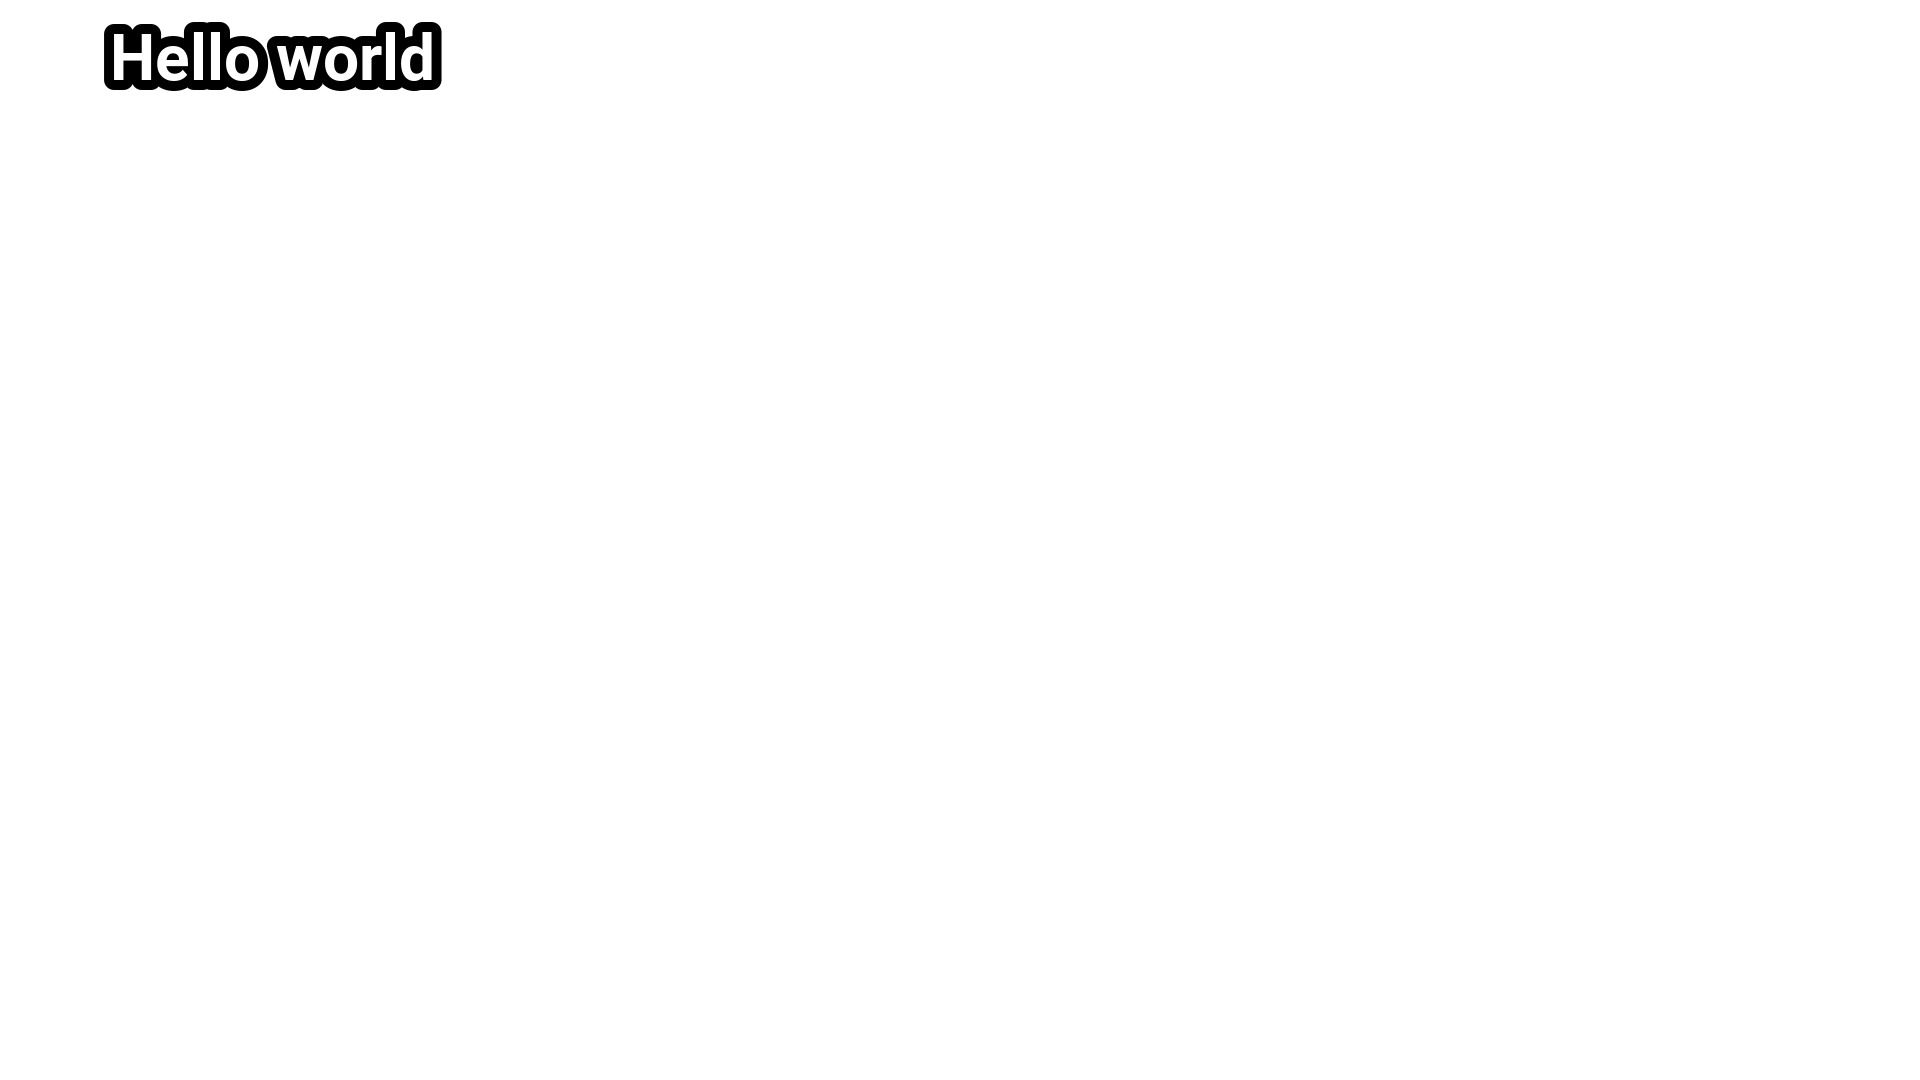
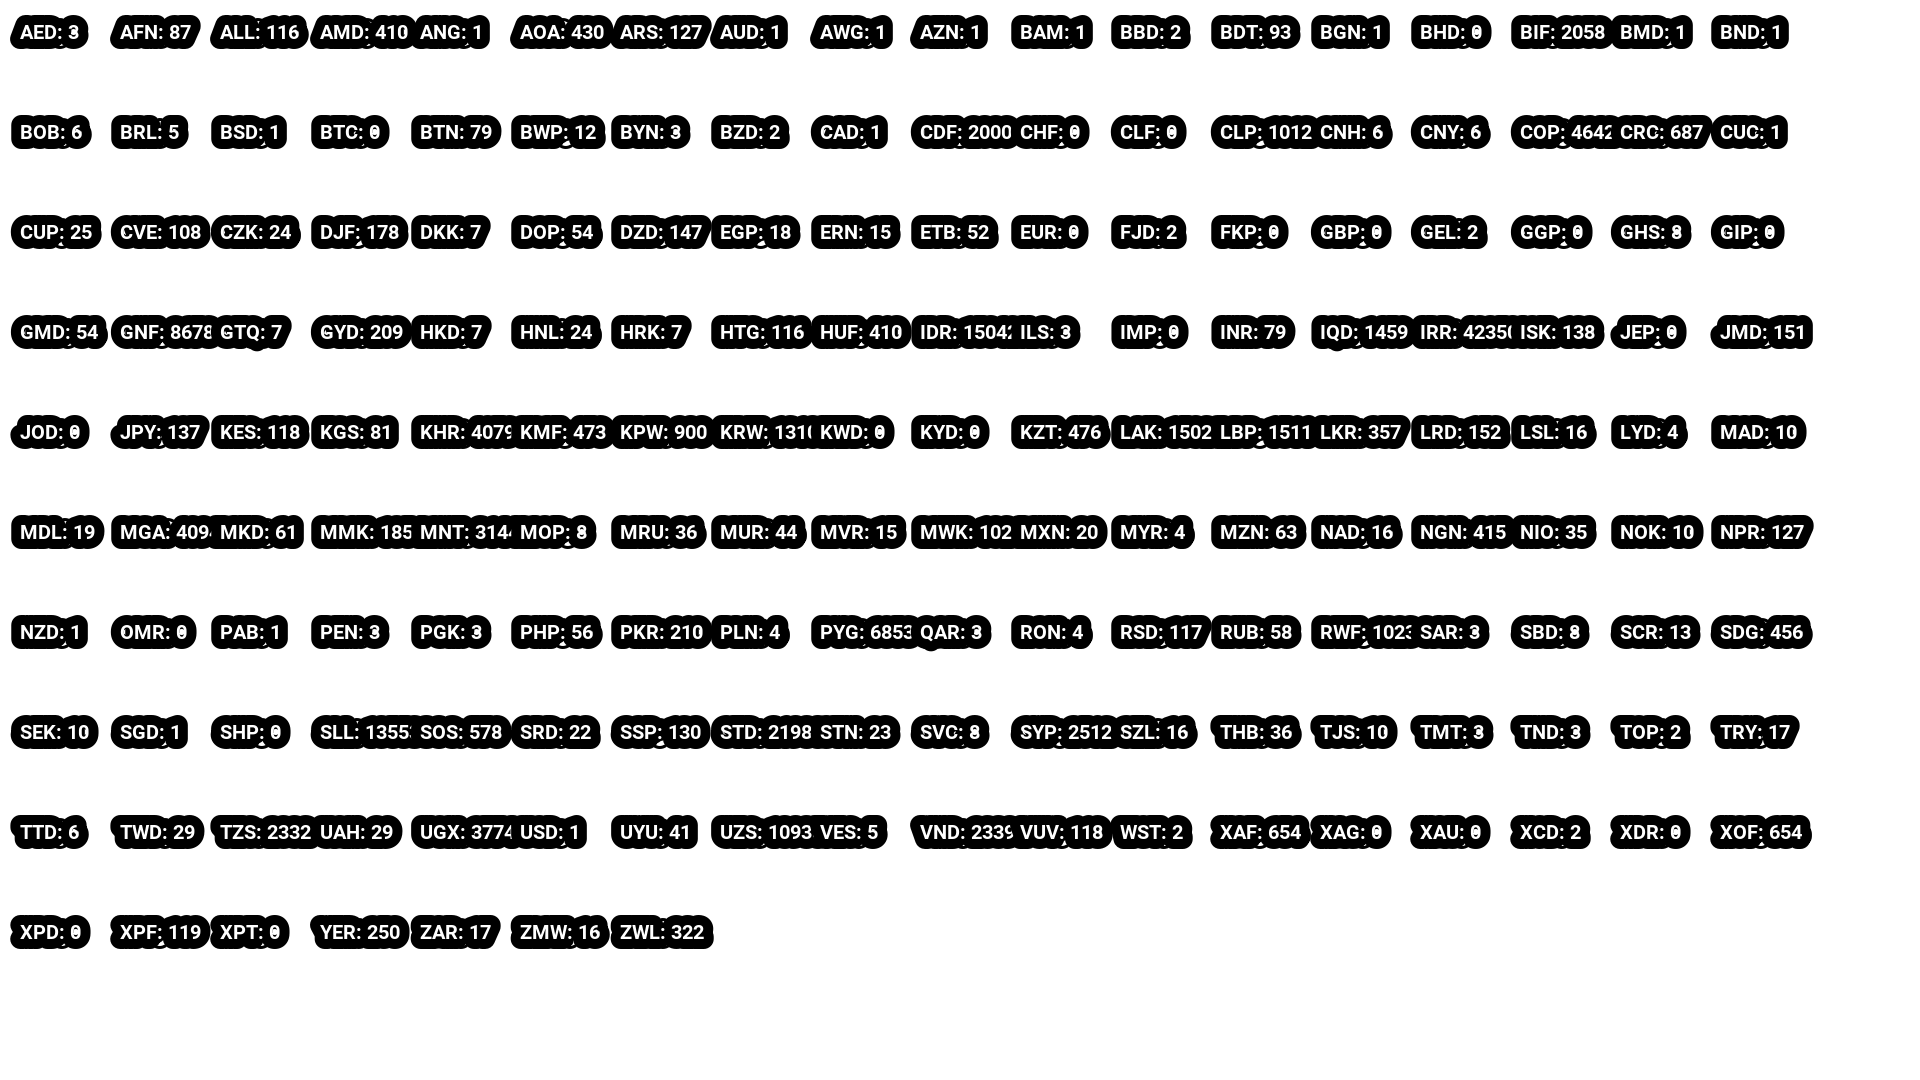
FEAT: Display all rates on one image

diff --git a/src/movie_tools/exchange_rate/rate.py b/src/movie_tools/exchange_rate/rate.py
@@ -1,4 +1,14 @@
+from dataclasses import dataclass
 import requests
+
+
+@dataclass
+class RatesResponse:
+    disclaimer: str
+    license: str
+    timestamp: int
+    base: str
+    rates: dict[str, float]
 
 
 class Client(object):
@@ -7,30 +17,12 @@ class Client(object):
         self.app_id = app_id
         self.session = requests.Session()
 
-    def get_currencies(self):
-        """
-        Get a JSON list of all currency symbols available from the Open
-        Exchange Rates API, along with their full names.
-        ref. https://oxr.readme.io/docs/currencies-json
-        """
-        return self.__request("currencies.json")
-
-    def get_latest(self, base=None, symbols=None):
+    def get_latest(self, base=None, symbols=None) -> RatesResponse:
         """
         Get latest data.
         ref. https://oxr.readme.io/docs/latest-json
         """
-        return self.__get_exchange_rates("latest.json", base, symbols)
-
-    def convert(self, value, from_symbol, to_symbol):
-        """
-        Convert any money value from one currency to another at the latest
-        API rates.
-        ref. https://oxr.readme.io/docs/convert
-        """
-        endpoint = "convert/{}/{}/{}".format(value, from_symbol, to_symbol)
-        payload = {"app_id": self.app_id}
-        return self.__request(endpoint, payload)
+        return RatesResponse(**self.__get_exchange_rates("latest.json", base, symbols))
 
     def __request(self, endpoint, payload=None):
         url = self.api_base + "/" + endpoint

diff --git a/src/movie_tools/exchange_rate/imaging.py b/src/movie_tools/exchange_rate/imaging.py
@@ -10,15 +10,14 @@ class Imaging:
         self.img = Image.new(mode="RGBA", size=(1920, 1080), color=(0, 0, 0, 0))
 
         self.font_path = Path(__file__).parent.joinpath("fonts", "Roboto-Bold.ttf")
-        self.font_size = 20  # 文字の大きさ
 
-    def build(self, image_path: str = r".\test.png"):
+    def save(self, image_path: str = r".\test.png"):
         self.img.save(image_path, quality=95)
 
     def write(
         self,
         text: str,
-        xy: tuple[float, float] = (110, 20),
+        xy: tuple[float, float],
         size: int = DEFAULT_FONT_SIZE,
     ):
         """
@@ -35,8 +34,3 @@ class Imaging:
             stroke_fill="black",
             stroke_width=10,
         )
-
-
-i = Imaging()
-i.write("Hello world")
-i.build()

diff --git a/src/movie_tools/exchange_rate/main.py b/src/movie_tools/exchange_rate/main.py
@@ -1,0 +1,29 @@
+import os
+
+import dotenv
+
+from movie_tools.exchange_rate import imaging, rate
+
+
+dotenv.load_dotenv("./.env")
+
+
+def main():
+
+    rate_client = rate.Client(os.environ.get("OXRATE_APP_ID"))
+    result = rate_client.get_latest()
+
+    image = imaging.Imaging()
+
+    width, height = image.img.size
+    margin = 20
+
+    for (i, [key, value]) in enumerate(result.rates.items()):
+        x = i % 18 * 100 + margin
+        y = i // 18 * 100 + margin
+        image.write(f"{key}: {int(value)}", (x, y), size=20)
+
+    image.save("./test.png")
+
+
+main()
